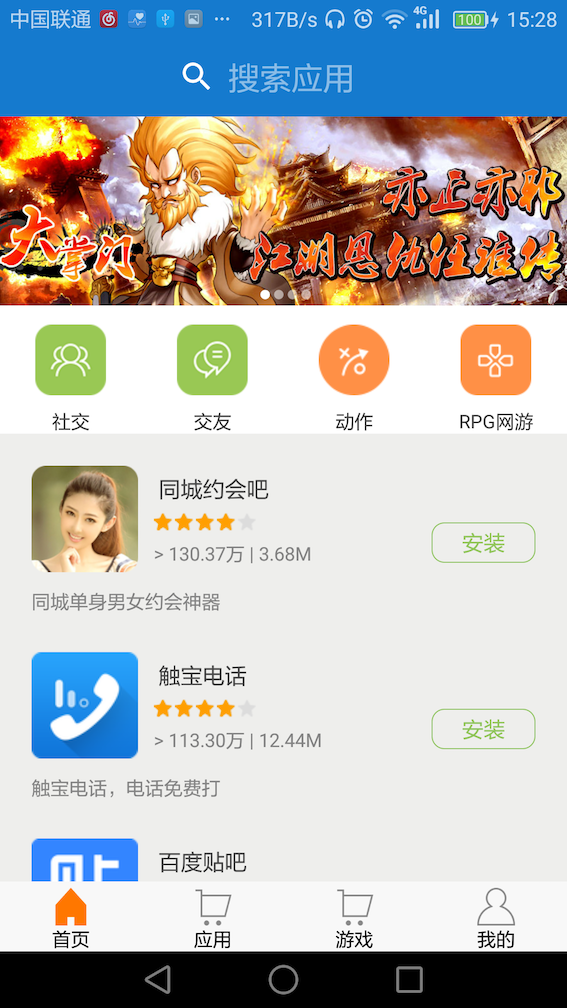
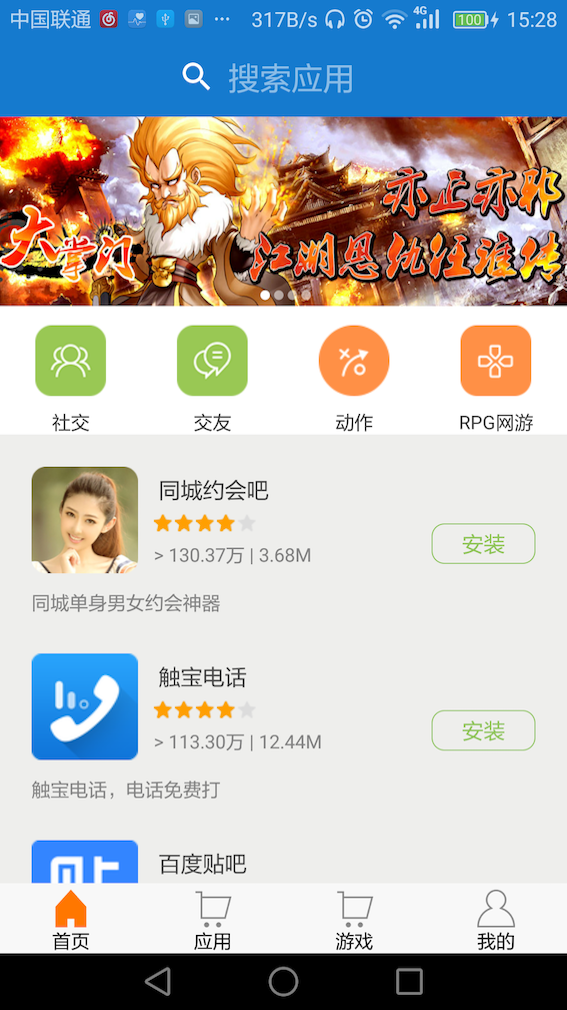
update pic width&height

diff --git a/README.md b/README.md
@@ -11,7 +11,7 @@
 ### 二、首页banner展示
 在首页展示一些banner信息用于活动推广等作用  
 效果图如下：  
-<img src="./pic/main.png"/>
+<img src="./pic/main.png" width = "200" height = "356" alt="mian" align=center />
 
 ### 三、app信息list展示
 在不同的界面展示不同的app list
@@ -22,10 +22,10 @@
 ### 五、其他功能
 其他功能主要放在我的页面中：登录功能入口、版本更新、用户反馈等。  
 我的页面效果图如下：  
-<img src="./pic/mine.png"/>
+<img src="./pic/mine.png" width = "200" height = "356" alt="mian" align=center />
 
 自更新效果图如下：  
-<img src="./pic/selfupdate.png"/>
+<img src="./pic/selfupdate.png" width = "200" height = "356" alt="mian" align=center />
 
 ## 方案选择
 
